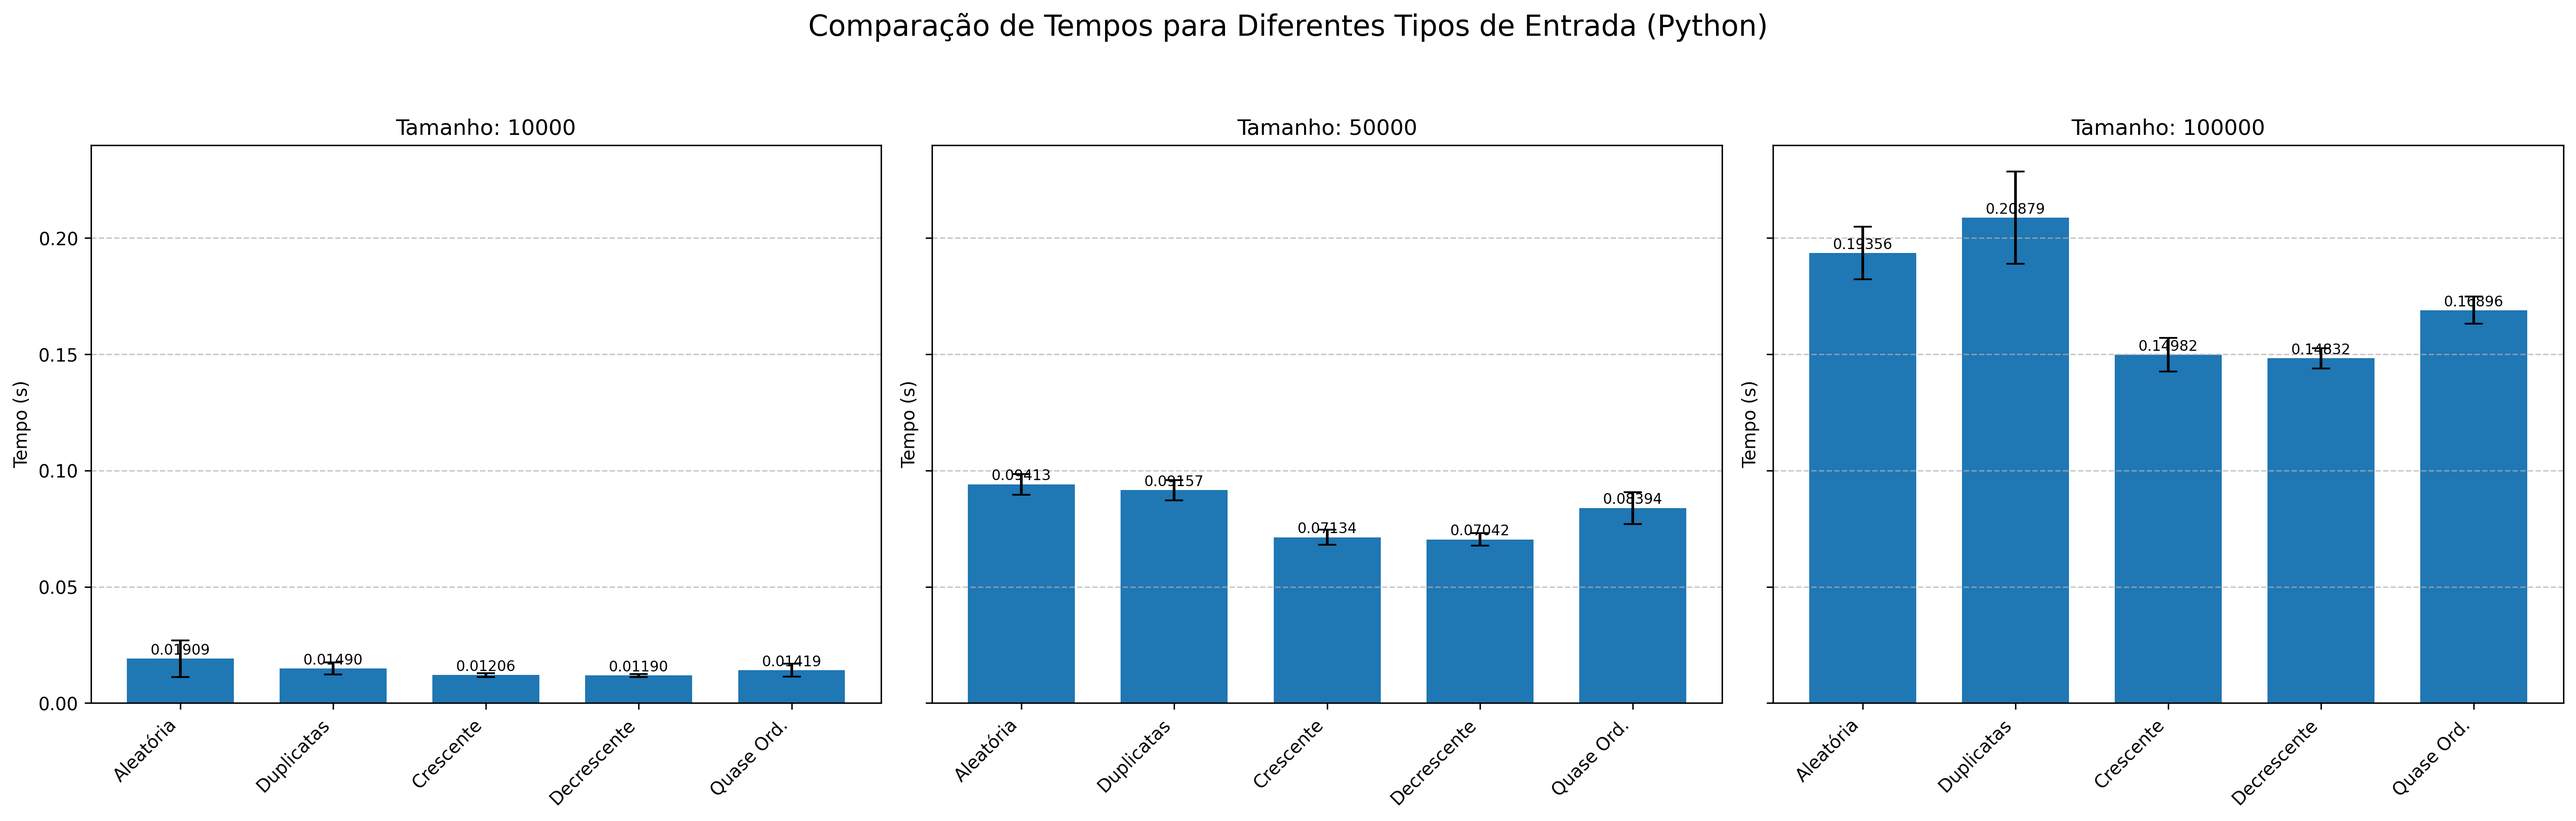
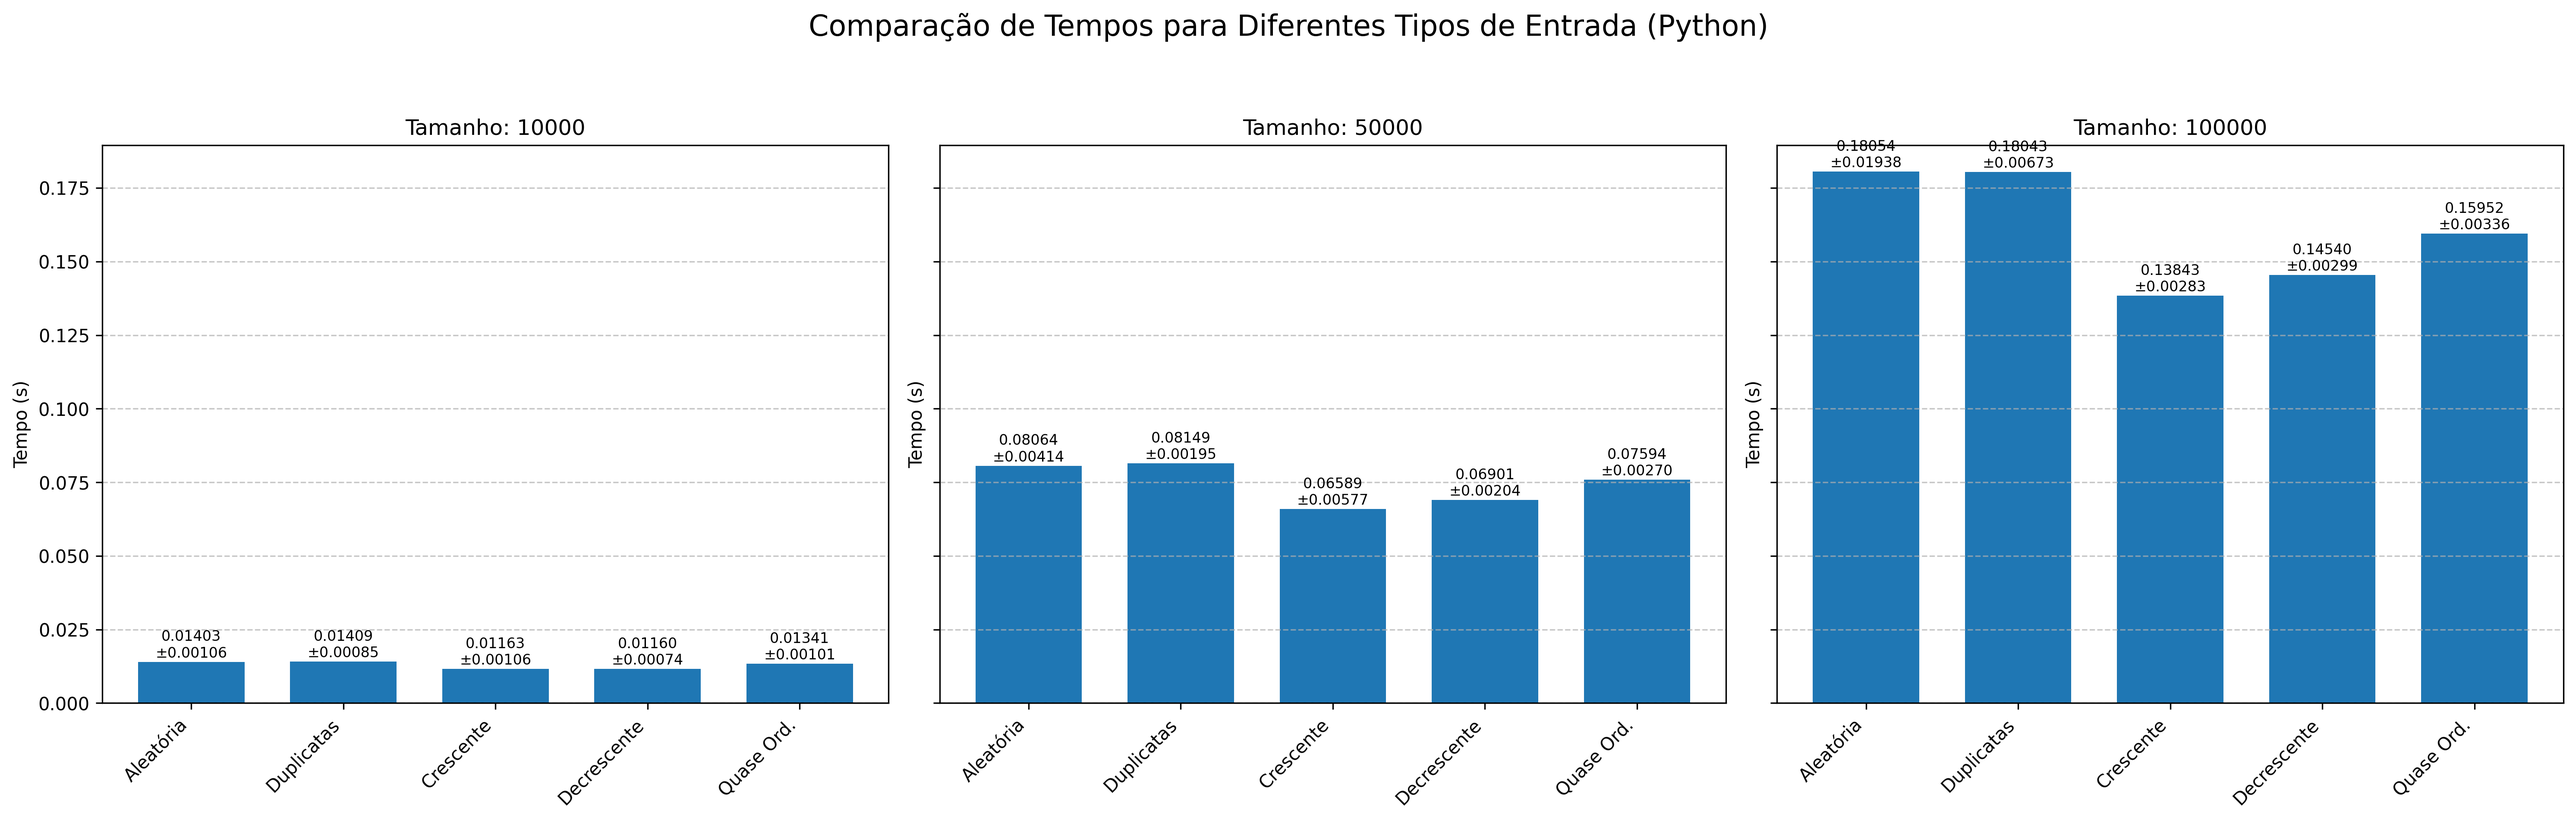
Ajeitando Gráficos

diff --git a/comparar_linguagens.py b/comparar_linguagens.py
@@ -2,7 +2,7 @@ import pandas as pd
 import matplotlib.pyplot as plt
 import numpy as np
 
-# Função para carregar dados dos resultados - NOMES MODIFICADOS
+# Função para carregar dados dos resultados
 def carregar_dados(arquivo_c='resultados_mergesort_c_detalhado.csv', 
                    arquivo_python='resultados_mergesort_python_detalhado.csv'):
     try:
@@ -42,17 +42,14 @@ def comparar_c_python(df_c, df_python):
         df_c_tipo = df_tipo[df_tipo['Linguagem'] == 'C']
         df_python_tipo = df_tipo[df_tipo['Linguagem'] == 'Python']
         
-        # Plotar barras
         ax = axes[i] if len(tipos) > 1 else axes
         x = np.arange(len(tamanhos))
         width = 0.35
         
         rects1 = ax.bar(x - width/2, df_c_tipo.sort_values('Tamanho')['Media_Tempo(s)'], 
-                        width, label='C', yerr=df_c_tipo.sort_values('Tamanho')['Desvio_Padrao(s)'],
-                        capsize=5)
+                        width, label='C')
         rects2 = ax.bar(x + width/2, df_python_tipo.sort_values('Tamanho')['Media_Tempo(s)'], 
-                        width, label='Python', yerr=df_python_tipo.sort_values('Tamanho')['Desvio_Padrao(s)'],
-                        capsize=5)
+                        width, label='Python')
         
         # Adicionar labels e títulos
         ax.set_xlabel('Tamanho da Entrada')
@@ -63,18 +60,21 @@ def comparar_c_python(df_c, df_python):
         ax.legend()
         ax.grid(axis='y', linestyle='--', alpha=0.7)
         
-        # Adicionar valores nas barras
-        def autolabel(rects):
-            for rect in rects:
-                height = rect.get_height()
-                ax.annotate(f'{height:.4f}',
-                            xy=(rect.get_x() + rect.get_width() / 2, height),
-                            xytext=(0, 3),  # 3 pts vertical offset
-                            textcoords="offset points",
-                            ha='center', va='bottom', rotation=90)
+        # Função para adicionar valores nas barras COM desvio padrão no texto
+        def autolabel(rects, desvios):
+            for j, rect in enumerate(rects):
+                altura = rect.get_height()
+                desvio = desvios.iloc[j]
+                # Mostra: tempo médio ± desvio padrão
+                ax.annotate(f'{altura:.4f}\n±{desvio:.4f}',
+                           xy=(rect.get_x() + rect.get_width() / 2, altura),
+                           xytext=(0, 3),
+                           textcoords="offset points",
+                           ha='center', va='bottom', fontsize=8)
         
-        autolabel(rects1)
-        autolabel(rects2)
+        # Chamar autolabel passando os desvios corretos
+        autolabel(rects1, df_c_tipo.sort_values('Tamanho')['Desvio_Padrao(s)'])
+        autolabel(rects2, df_python_tipo.sort_values('Tamanho')['Desvio_Padrao(s)'])
     
     plt.tight_layout()
     plt.savefig('comparacao_c_vs_python.png')
@@ -121,10 +121,7 @@ def calcular_speedup(df_c, df_python):
     plt.xticks(index + bar_width*(len(tipos)-1)/2, tamanhos)
     plt.legend()
     plt.grid(axis='y', linestyle='--', alpha=0.7)
-    
-    # Linha de referência para speedup = 1 (mesma velocidade)
-    plt.axhline(y=1, color='r', linestyle='--', alpha=0.3)
-    
+       
     plt.tight_layout()
     plt.savefig('speedup_python_vs_c.png')
     plt.close()

diff --git a/gerar_graficos.py b/gerar_graficos.py
@@ -62,15 +62,14 @@ def gerar_graficos(linguagem="c"):
             nomes_curtos = [nomes_tipos.get(tipo, tipo) for tipo in dados_tamanho['Tipo']]
             
             # Criar barras com tempos médios
-            barras = axs[i].bar(nomes_curtos, dados_tamanho['Media_Tempo(s)'], width, 
-                               yerr=dados_tamanho['Desvio_Padrao(s)'], 
-                               capsize=5)
+            barras = axs[i].bar(nomes_curtos, dados_tamanho['Media_Tempo(s)'], width)
             
-            # Adicionar rótulos de valor nas barras
-            for barra in barras:
+            # Adicionar rótulos de valor nas barras COM desvio padrão
+            for j, barra in enumerate(barras):
                 altura = barra.get_height()
+                desvio = dados_tamanho['Desvio_Padrao(s)'].iloc[j]
                 axs[i].text(barra.get_x() + barra.get_width()/2., altura + 0.0005,
-                           f'{altura:.5f}',
+                           f'{altura:.5f}\n±{desvio:.5f}',
                            ha='center', va='bottom', fontsize=8, rotation=0)
             
             axs[i].set_title(f'Tamanho: {tamanho}')
@@ -157,22 +156,20 @@ def gerar_graficos(linguagem="c"):
             
             plt.subplot(len(tipos_unicos), 1, i+1)
             barras = plt.bar(df_tipo['Tamanho'].astype(str), df_tipo['Media_Tempo(s)'], 
-                           width=0.7,
-                           yerr=df_tipo['Desvio_Padrao(s)'], 
-                           capsize=5)
+                           width=0.7)
             
             # Adicionar rótulos de valores nas barras
-            for barra in barras:
+            for j, barra in enumerate(barras):
                 altura = barra.get_height()
+                desvio = df_tipo['Desvio_Padrao(s)'].iloc[j]
                 plt.text(barra.get_x() + barra.get_width()/2., altura + altura*0.01,
-                       f'{altura:.5f}s',
-                       ha='center', va='bottom', fontsize=8)
+                        f'{altura:.5f}s\n±{desvio:.5f}s',
+                        ha='center', va='bottom', fontsize=8)
             
             plt.ylabel('Tempo (s)', fontsize=10)
             plt.title(f'Tipo: {nomes_tipos.get(tipo, tipo)}{titulo_linguagem}', fontsize=12)
             plt.grid(axis='y', linestyle='--', alpha=0.7)
             
-            # Ajustar os rótulos do eixo x para evitar sobreposição
             plt.xticks(fontsize=10)
             
             # Adicionar uma linha de tendência suave

diff --git a/mergesort_c.c b/mergesort_c.c
@@ -4,7 +4,7 @@
 #include <string.h>
 #include <math.h>  // Para cálculo do desvio padrão
 
-// Função de intercalação (mantida igual)
+// Função de intercalação
 void intercalar(int inicio, int meio, int fim, int v[]) {
     int inicio_v01 = inicio;
     int inicio_v02 = meio + 1;
@@ -34,7 +34,7 @@ void intercalar(int inicio, int meio, int fim, int v[]) {
     free(aux);
 }
 
-// Função merge sort (mantida igual)
+// Função merge sort
 void mergesort(int inicio, int fim, int v[]) {
     if (inicio < fim) {
         int meio = (inicio + fim) / 2;
@@ -144,14 +144,14 @@ int main() {
     int num_arquivos = sizeof(arquivos) / sizeof(arquivos[0]);
     int num_execucoes = 30;  // Número de execuções: 30
 
-    // Cria arquivo CSV para resultados detalhados - NOME MODIFICADO
+    // Cria arquivo CSV para resultados detalhados
     FILE* resultado_csv = fopen("resultados_mergesort_c_detalhado.csv", "w");
     if (resultado_csv == NULL) {
         printf("Erro ao criar arquivo de resultados CSV\n");
         return 1;
     }
     
-    // Cria arquivo CSV para os tempos individuais de cada execução - NOME MODIFICADO
+    // Cria arquivo CSV para os tempos individuais de cada execução
     FILE* tempos_individuais_csv = fopen("tempos_individuais_mergesort_c.csv", "w");
     if (tempos_individuais_csv == NULL) {
         printf("Erro ao criar arquivo de tempos individuais CSV\n");
